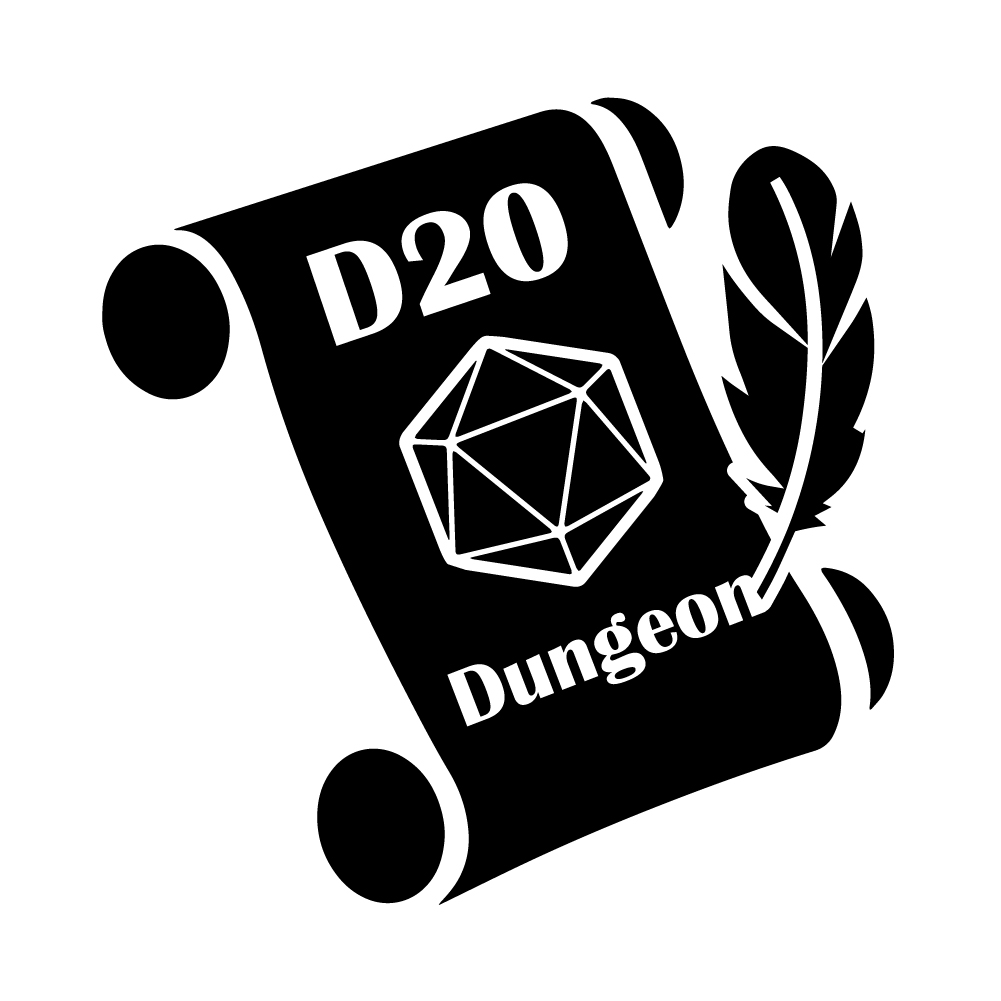
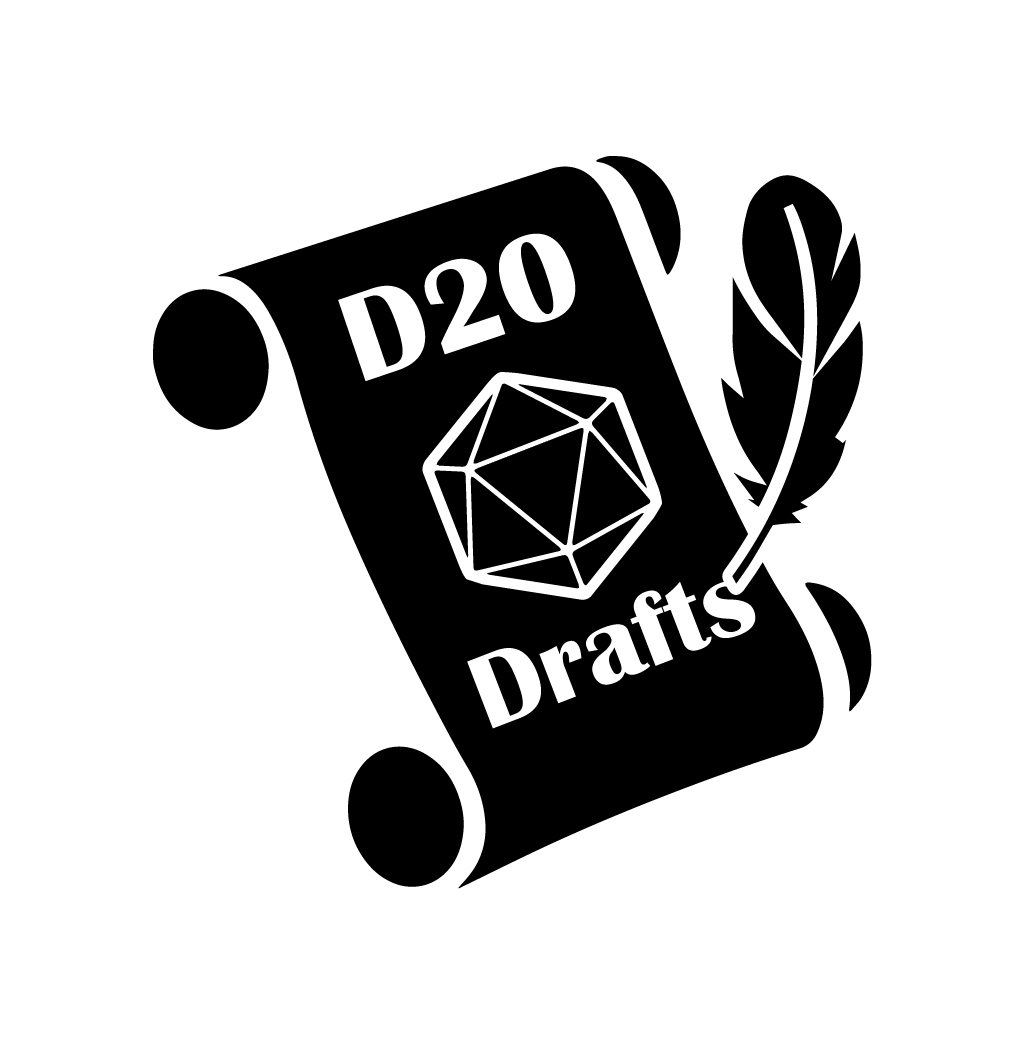
Updated name and Readme

Changed region(s): [[0.0929, 0.0929, 0.8981, 0.9291]]

diff --git a/README.md b/README.md
@@ -1,6 +1,6 @@
-<img alt="D20 Dungeon" src="./src/images/icon.jpg" data-canonical-src="https://gyazo.com/eb5c5741b6a9a16c692170a41a49c858.png" width="200" height="200" style="border-radius: 50%;" />
+<img alt="D20 drafts" src="./src/images/icon.jpg" data-canonical-src="https://gyazo.com/eb5c5741b6a9a16c692170a41a49c858.png" width="200" height="200" style="border-radius: 50%;" />
 
-# D20 Dungeon
+# D20 Drafts
 An choose your own adventure Discord bot with a 20 sided Dice!
 
 ## Table of Contents  
@@ -17,13 +17,13 @@ An choose your own adventure Discord bot with a 20 sided Dice!
 Clone the project in the terminal.
 
 ```
-git clone https://github.com/peltos/discordjs-d20-dungeon.git
+git clone https://github.com/peltos/d20-drafts.git
 ```
 
 Go to the directory.
 
 ```
-cd discordjs-d20-dungeon
+cd d20-drafts
 ```
 
 Install all the packages.
